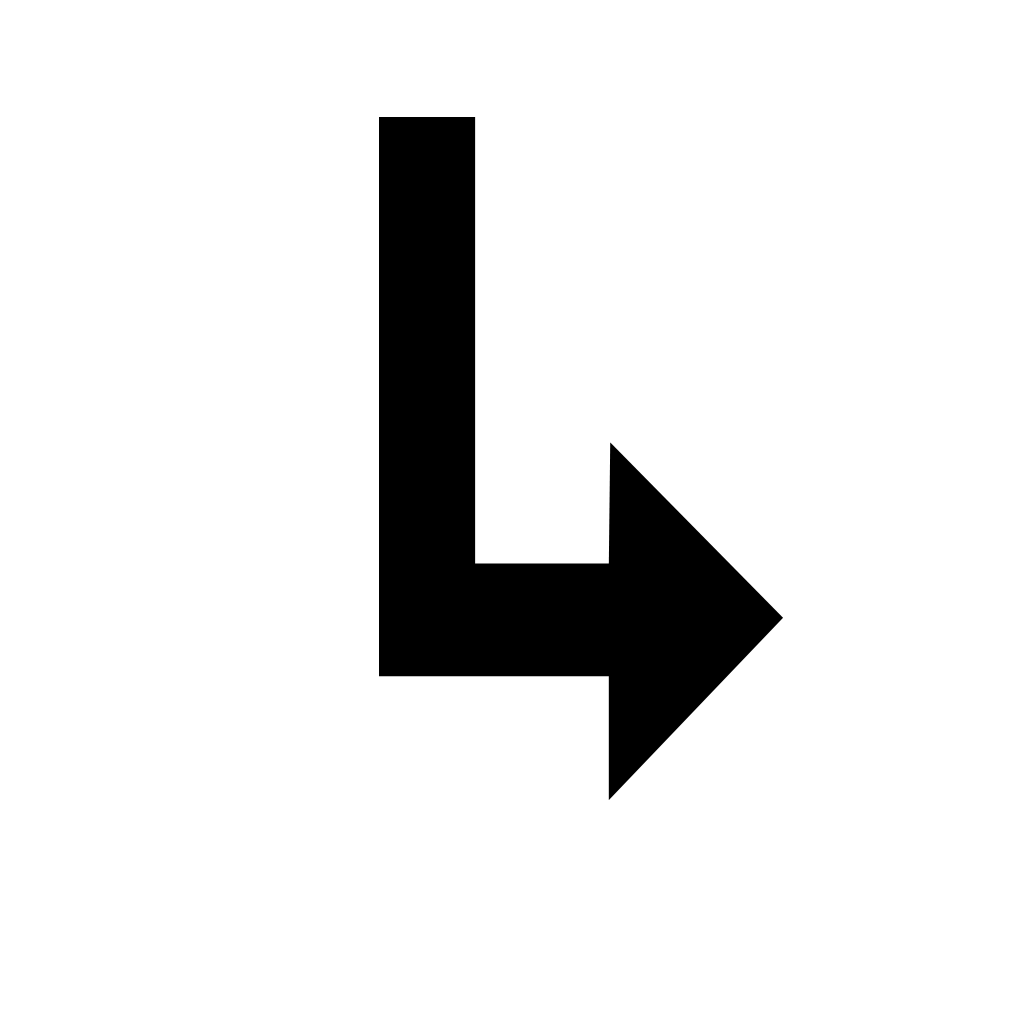
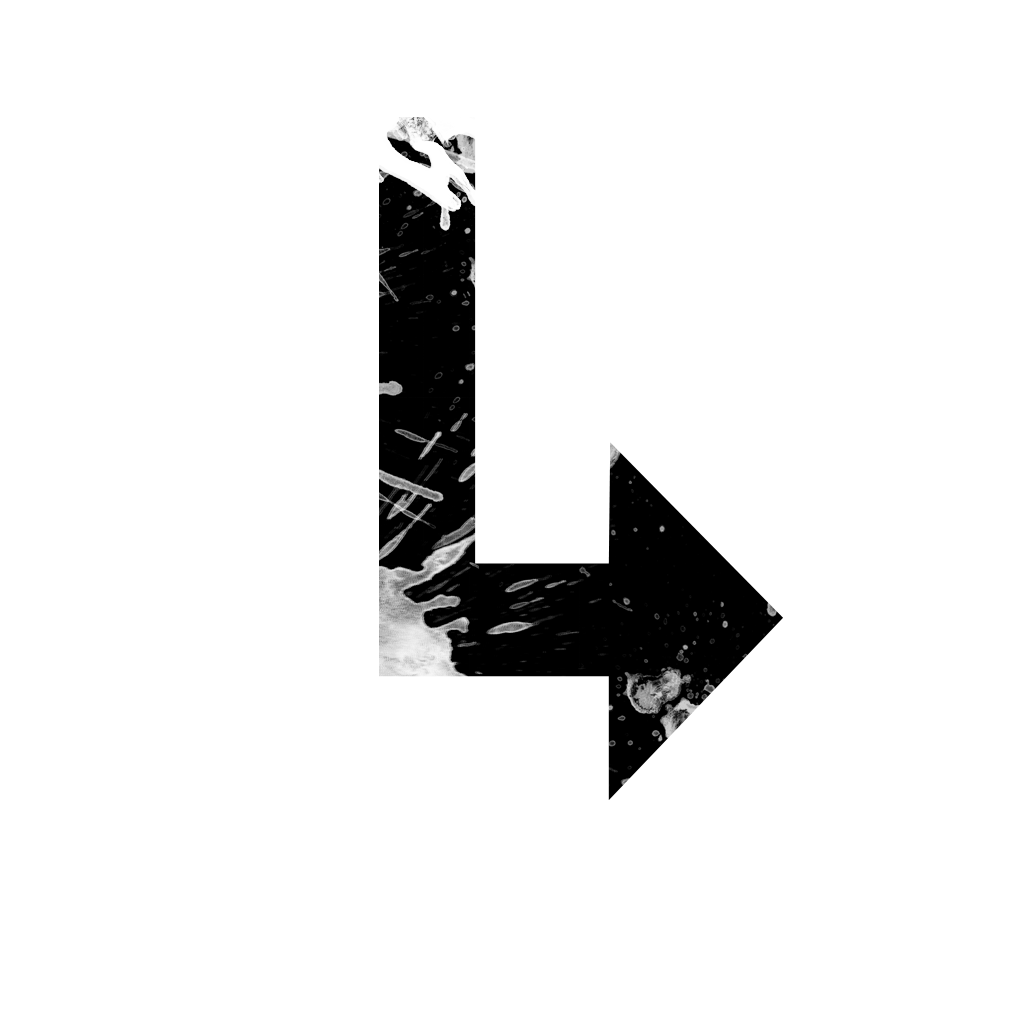
Developed the page further, added about

diff --git a/styles_pages.css b/styles_pages.css
@@ -1,16 +1,18 @@
 body {
     background-color: #f9f4f4;
     margin: 0;
-    background-image: url("Images/Kitten.png");
-    background-repeat: no-repeat;
-    background-size: cover;
 }
 
-/*
 * {
     outline: solid yellow 1px
 }
-*/
+
+
+.header {
+    height: 90px;
+    background-color: #c2c4df
+    
+}
 
 .title {
     font-family: "Bebas Neue", sans-serif;
@@ -47,16 +49,29 @@ body {
     width: 100px;
 }
 
-.photography_text {
-    margin-top: 630px;
-    margin-right: 200px;
-    float: right;
-    text-align: right;
-    width: 200px;
-    font-family: "Bebas Neue", sans-serif;
-    font-size: 1.5em;
-}
-
 .light_red {
     color: #e74a4a
+}
+
+.name {
+    font-family: "Bebas Neue", sans-serif;
+    vertical-align: -120px;
+    font-size: 2em;
+}
+
+.arrow {
+    float: right;
+    width: 500px;
+    size: 50px;
+}
+
+
+.resize {
+    width: 400px;
+    height: auto
+}
+
+.me {
+    width: 60%;
+    float: right;
 }

diff --git a/About_Page.html b/About_Page.html
@@ -1,0 +1,37 @@
+<!DOCTYPE html>
+
+<html>
+<head>
+    <title>Page Title</title>
+    <link rel="stylesheet" href="styles_pages.css"
+</head>
+
+<body>
+    
+    <div class="header">
+        <div class="title">SMOKER DESIGN</div>
+            <div class="links">
+                <a href="file:///C:/Users/Rory/Desktop/Portfolio_Website/Webpage.html#">HOME</a>
+                <a href="#"><span class="light_red"/>ABOUT</a>
+                <a href="#">CONTACT</a>
+                <a href="#">DESIGN</a>
+                <a href="#">PHOTOGRAPHY</a>
+            </div
+    </div>
+        
+    <div class="logo">
+        <img src="Images/Logo.png" />
+    </div>
+    
+    <a class="name">ABOUT</a>
+    
+    <div class="me">
+        <img src="Images/Me.png"/>
+    </div>
+    
+    <div class="arrow">
+        <img class="resize" src="Images/Arrow.png"/>
+    </div>
+
+</body>
+</html>

diff --git a/Webpage.html b/Webpage.html
@@ -8,12 +8,20 @@
 
 <body>
     
-    <div class="header">
-        <div>SMOKER DESIGN</div>
-        <img src="Images/Kitten.png" />
+    <div class="title">SMOKER DESIGN</div>
+        <div class="links">
+            <a href="#">CONTACT</a>
+            <a href="#">DESIGN</a>
+            <a href="#">PHOTOGRAPHY</a>
+        </div>
+        
+    <div class="logo">
+        <img src="Images/Logo.png" />
     </div>
-
-
+        
+    <div class="photography_text"> PHOTOGRAPHY // KITTEN </div>
+        
+    
 
 </body>
 </html>
